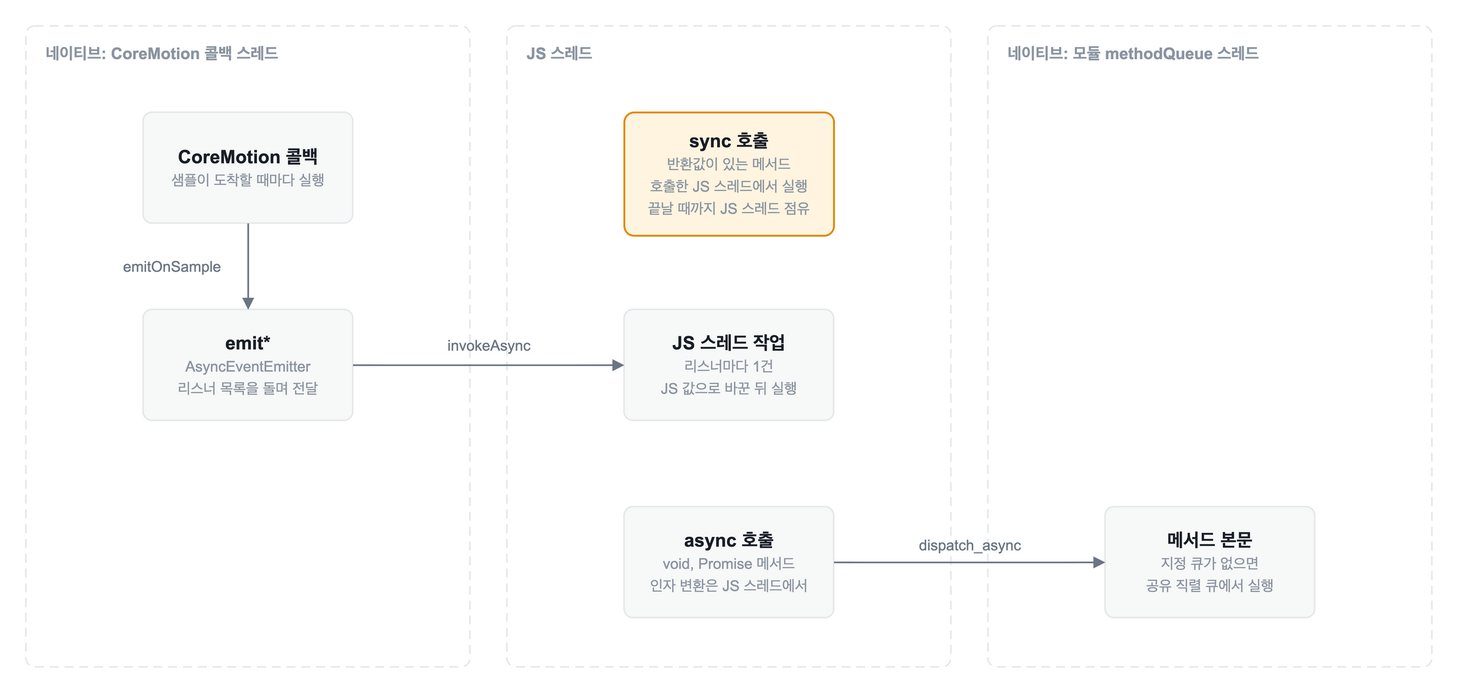
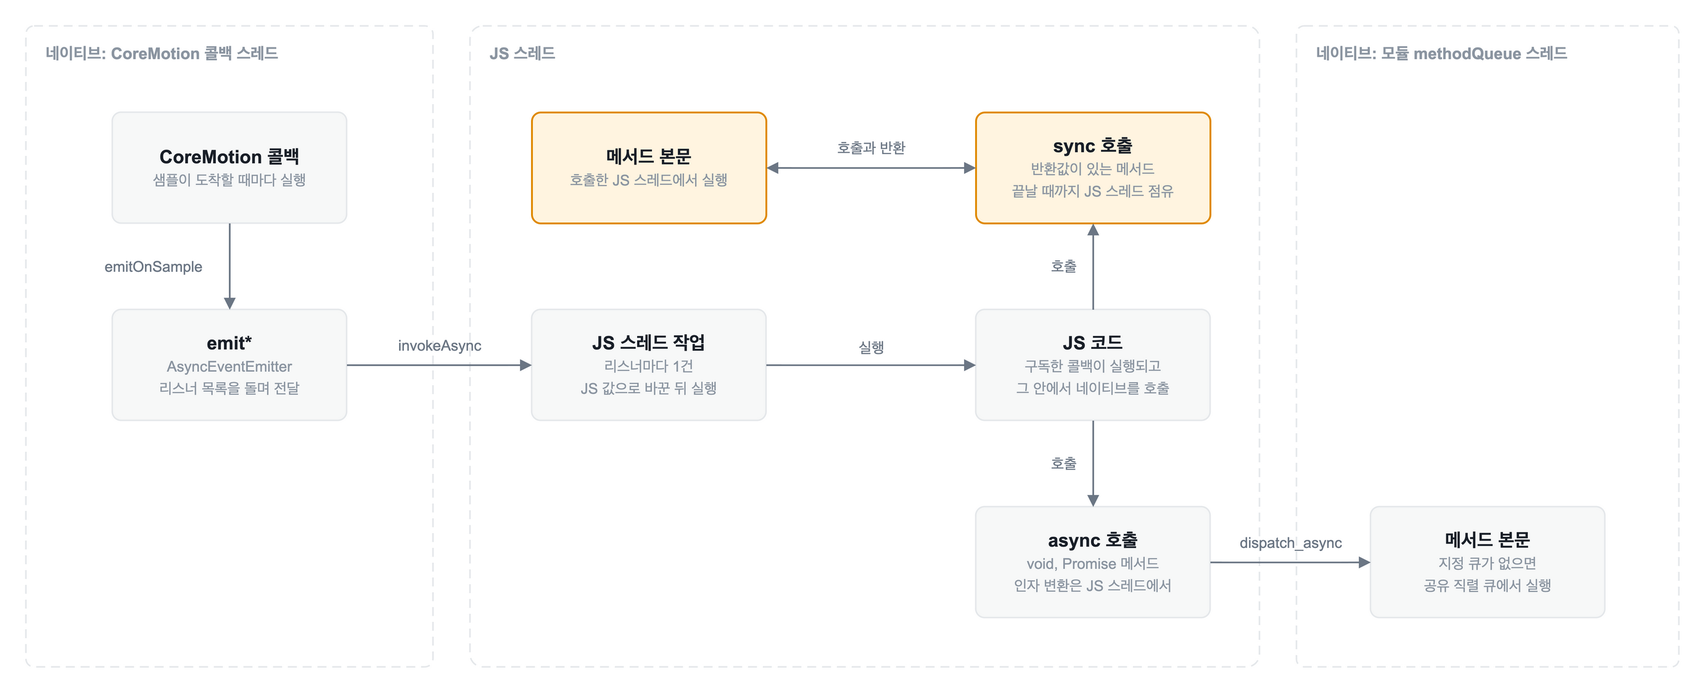
fix: 센서 값 전달 방식 비교 글 근거 보강 및 그림 수정

diff --git a/_posts/2026-10-25-rn-native-bidirectional-queue.md b/_posts/2026-10-25-rn-native-bidirectional-queue.md
@@ -1,50 +1,52 @@
 ---
 title: "React Native 센서 값, 이벤트로 보낼까 큐에 모을까?"
 date: "2026-10-25T00:00:00.000Z"
-excerpt: "iOS 시뮬레이터에서 가속도계 값을 이벤트로 보내는 스트림, 거기에 JS 프레임 묶음을 더한 대조군, 네이티브 큐 세 방식으로 JS에 전달하며 콜백 횟수, 경계 통과 횟수, 지연, 유실을 반복 측정해 비교한 실험 보고서입니다."
+excerpt: "iOS 시뮬레이터에서 가속도계 값을 이벤트로 보내는 스트림, 거기에 JS 프레임 묶음을 더한 대조군, 네이티브 큐 세 방식으로 JS에 전달하며 콜백 횟수, 경계 통과 횟수, 지연, 유실을 반복 측정해 비교한 실험 보고서이다."
 categories: architecture
 tags: []
 ---
-
 ## 1. 실험 목적
 
 네이티브에서 계속 만들어지는 센서 값을 React Native의 JS로 보내는 방식인 스트림과 큐를 같은 조건에서 반복 측정하여 어느 쪽이 어떤 조건에서 더 효율적인지 확인하는 것이 이 실험의 목적이다.
 
-큐는 값을 프레임 단위로 묶어서 처리한다. 그래서 큐의 이점이 큐라는 구조에서 나오는지 아니면 프레임 단위로 묶는 데서만 나오는지를 가려내기 위해 대조군인 프레임 묶음을 하나 더 두었다. 추가로 JS에서 네이티브로 자주 부르는 입력을 프레임 단위로 합치는 방법의 효과도 확인한다.
+이 실험의 큐는 JS가 프레임마다 값을 꺼내 가도록 만들었다. 그래서 큐의 이점이 큐라는 구조에서 나오는지 아니면 프레임 단위로 처리하는 데서만 나오는지를 가려내기 위해 대조군인 프레임 묶음을 하나 더 두었다. 추가로 JS에서 네이티브로 자주 부르는 입력을 프레임 단위로 합치는 방법의 효과도 확인한다.
 
 ## 2. 실험 배경
 
 ### 2.1 용어와 원리
 
-React Native 앱에서 JS 코드와 네이티브 코드는 대부분 서로 다른 스레드에서 실행된다. JS 스레드는 한 번에 한 가지 일만 처리하며 React의 화면 구성 계산과 JS 콜백을 맡는다. 실제로 화면에 그리는 일은 메인 스레드가 맡는다. 따라서 JS 스레드에 과부하가 걸리면 콜백과 화면 구성 계산이 그만큼 밀린다.
+React Native 앱에서 JS 코드와 네이티브 코드는 대부분 서로 다른 스레드에서 실행된다. 공식 문서 [Threading Model](https://reactnative.dev/architecture/threading-model)은 UI 스레드를 화면의 뷰를 다룰 수 있는 유일한 스레드로 설명하고 JS 스레드를 React의 렌더 단계와 레이아웃이 실행되는 곳으로 설명한다. JS 스레드는 JS 콜백도 실행한다. JS는 작업 하나가 끝나야 다음 작업을 처리한다. 이 규칙은 [MDN](https://developer.mozilla.org/en-US/docs/Web/JavaScript/Reference/Execution_model#run-to-completion)에서 확인할 수 있다. 따라서 JS 스레드가 과부하가 걸리면 콜백과 화면 구성 계산이 그만큼 밀린다.
 
 - 구독: JS가 ‘값이 오면 알려 달라’고 등록하는 것
 - 콜백: 값이 왔을 때 JS에서 실행되는 함수
 - TurboModule: React Native에서 JS가 네이티브 기능을 부르는 통로
-- 동기 호출과 비동기 호출: 호출한 쪽이 끝날 때까지 기다리면 동기이고 기다리지 않으면 비동기
+
 - 프레임: 화면이 한 번 갱신되는 단위. `requestAnimationFrame`은 다음 프레임에 맞춰 함수를 실행한다
-- 스트림: 값이 만들어질 때마다 이벤트를 하나씩 보낸다. 이벤트 하나는 JS 스레드의 일감 하나가 된다
-- 큐: 네이티브가 값을 큐에 넣고 큐가 처음 채워질 때만 ‘읽을 값이 있다’는 신호를 보낸다. JS는 신호를 받으면 프레임마다 `drain`으로 최대 64개를 가져간다
-- 프레임 묶음: 대조군이다. 스트림처럼 이벤트를 샘플마다 받지만 JS는 받은 값을 모아 두었다가 프레임마다 한 번에 처리한다. 큐의 이점이 큐 구조에서 나오는지 모아서 처리하는 데서 나오는지 가리려고 두었다
+- 스트림: 값이 만들어질 때마다 이벤트를 하나씩 보낸다. 이벤트 하나마다 JS 스레드에서 콜백이 한 번 실행된다
+- 큐: 네이티브가 값을 큐에 넣고 큐가 처음 채워질 때만 ‘읽을 값이 있다’는 신호를 보낸다. JS는 신호를 받으면 프레임마다 `drain`으로 최대 64개를 가져간다. 64는 실험자가 정한 값이다
+- 프레임 묶음: 대조군이다. 스트림처럼 이벤트를 샘플마다 받지만 받은 값을 모아 두었다가 프레임마다 한 번에 처리하도록 실험자가 구현하였다. 큐의 이점이 큐 구조에서 나오는지 모아서 처리하는 데서 나오는지 가리려고 두었다
 - 경계 통과: JS와 네이티브 사이를 한 번 넘는 일. 이 실험에서는 네이티브에서 JS로 보내는 이벤트 1회와 JS에서 네이티브로 부르는 동기 호출 1회를 각각 1회로 센다
 
-React Native 0.88.0의 iOS 소스에서 확인한 사실은 다음과 같다.
+공식 문서 [Emitting Events in Native Modules](https://reactnative.dev/docs/the-new-architecture/native-modules-custom-events)는 이벤트가 보내질 때마다 구독한 콜백이 실행된다고만 설명한다. 이벤트가 어떤 스레드의 어떤 작업으로 전달되는지와 메서드의 동기와 비동기 실행 방식, 리스너가 없을 때의 동작은 공식 문서에서 찾지 못했다. 그래서 다음 동작은 React Native 0.88.0의 iOS 소스를 읽고 정리하였다. 이 중 이벤트마다 콜백이 실행된다는 점과 구독 전 값이 사라진다는 점은 이 실험에서 측정으로도 확인하였다.
 
-- 네이티브가 이벤트를 보내면 [`EventEmitter.h`](https://github.com/facebook/react-native/blob/v0.88.0/packages/react-native/ReactCommon/react/bridging/EventEmitter.h)의 `emit`이 리스너마다 [`Function.h`](https://github.com/facebook/react-native/blob/v0.88.0/packages/react-native/ReactCommon/react/bridging/Function.h)의 `invokeAsync`로 JS 스레드의 일감을 하나씩 예약한다
+- 네이티브가 이벤트를 보내면 [`EventEmitter.h`](https://github.com/facebook/react-native/blob/v0.88.0/packages/react-native/ReactCommon/react/bridging/EventEmitter.h)의 `emit`이 리스너마다 [`Function.h`](https://github.com/facebook/react-native/blob/v0.88.0/packages/react-native/ReactCommon/react/bridging/Function.h)의 `invokeAsync`로 JS 스레드에서 실행할 콜백을 하나씩 예약한다
 - [`RCTTurboModule.mm`](https://github.com/facebook/react-native/blob/v0.88.0/packages/react-native/ReactCommon/react/nativemodule/core/platform/ios/ReactCommon/RCTTurboModule.mm)에서 `void`나 `Promise`를 돌려주는 네이티브 메서드는 네이티브 쪽 큐에서 비동기로 실행되고 그 밖의 반환값이 있는 메서드는 JS 스레드가 끝날 때까지 기다린다
 - 이벤트를 보내는 시점에 리스너가 하나도 없으면 `emit`이 돌 목록이 비어 있어서 값은 버려진다
 - JS가 모듈을 처음 가져오기 전에는 [`serializeEventEmitter.js`](https://github.com/facebook/react-native/blob/v0.88.0/packages/react-native-codegen/src/generators/modules/GenerateModuleObjCpp/serializeEventEmitter.js)가 만든 이벤트 함수가 아무 일도 하지 않는다
 
-<img class="theme-image--light" src="/assets/images/posts/rn-native-bidirectional-queue/rn-native-boundary-map-light.png" alt="네이티브의 CoreMotion 콜백 스레드에서 emit이 invokeAsync로 JS 스레드 작업이 되고 sync 호출은 JS 스레드에서 실행되며 async 호출은 dispatch_async로 네이티브 methodQueue 스레드로 가는 흐름">
-<img class="theme-image--dark" src="/assets/images/posts/rn-native-bidirectional-queue/rn-native-boundary-map.png" alt="네이티브의 CoreMotion 콜백 스레드에서 emit이 invokeAsync로 JS 스레드 작업이 되고 sync 호출은 JS 스레드에서 실행되며 async 호출은 dispatch_async로 네이티브 methodQueue 스레드로 가는 흐름">
+이벤트 횟수를 프레임 단위로 줄이는 방식에는 React Native 안에도 선례가 있다. [ScrollView 문서](https://reactnative.dev/docs/scrollview)는 `onScroll`이 스크롤 중 프레임당 최대 한 번 호출된다고 설명하고 `scrollEventThrottle`로 호출 간격을 더 늘릴 수 있다고 설명한다. 다만 이것은 네이티브 쪽에서 횟수를 제한하는 방식이고 프레임 묶음과 큐의 효과를 보장하는 근거는 아니다.
+
+<img class="theme-image--light" src="/assets/images/posts/rn-native-bidirectional-queue/rn-native-boundary-map-light.png" alt="네이티브의 CoreMotion 콜백이 emit으로 이벤트를 보내면 invokeAsync로 JS 스레드 작업이 되어 JS 코드가 실행되고 JS 코드가 부르는 sync 호출은 JS 스레드에서 메서드 본문을 실행하고 값을 반환하며 async 호출은 dispatch_async로 네이티브 methodQueue 스레드의 메서드 본문으로 가는 흐름">
+
+<img class="theme-image--dark" src="/assets/images/posts/rn-native-bidirectional-queue/rn-native-boundary-map.png" alt="네이티브의 CoreMotion 콜백이 emit으로 이벤트를 보내면 invokeAsync로 JS 스레드 작업이 되어 JS 코드가 실행되고 JS 코드가 부르는 sync 호출은 JS 스레드에서 메서드 본문을 실행하고 값을 반환하며 async 호출은 dispatch_async로 네이티브 methodQueue 스레드의 메서드 본문으로 가는 흐름">
 
 *그림 1. 호출 종류별로 실행되는 스레드*
 
 ### 2.2 효율의 기준
 
-효율을 다음 지표로 정의하였다. 콜백 횟수와 경계 통과 횟수와 지연과 유실은 낮을수록 JS 스레드와 경계의 부담이 적거나 값이 제때 도착했다는 뜻이다.
+효율을 다음 지표로 정의하였다. 콜백 횟수, 경계 통과 횟수, 지연, 유실은 낮을수록 좋다. 콜백과 경계 통과가 적으면 JS 스레드의 부담이 작고 지연과 유실이 적으면 값이 제때 도착한 것이다.
 
-- JS 콜백 횟수: 초당 JS가 처리해야 하는 일감 수
+- JS 콜백 횟수: 초당 JS가 실행하는 콜백 수
 - 경계 통과 횟수: 초당 경계를 넘는 횟수
 - 지연: 값이 만들어진 시각부터 JS 콜백이 실행되는 시각까지의 시간. 단위는 ms이다
 - 유실과 버림: 도착하지 못했거나 버려진 값의 개수
@@ -65,16 +67,18 @@ React Native 0.88.0의 iOS 소스에서 확인한 사실은 다음과 같다.
 
 ## 4. 실험 환경 및 도구
 
-| 항목 | 내용 |
-| --- | --- |
-| 기기 | iPhone 18 Pro 시뮬레이터 |
-| OS | iOS 27.0 |
-| 앱 | React Native 0.88.0 템플릿 앱 |
-| 빌드 | Debug |
-| 언어 | Swift, Objective-C++, TypeScript |
-| 네이티브 샘플 | 가속도계가 없어 `DispatchSource` 타이머로 합성한 값. 실행 간격이 어긋나지 않도록 `.strict` 옵션을 사용 |
-| 계측 | 네이티브 카운터는 생산, 이벤트, 신호, `drain`, `setAlpha` 횟수이고 `uptime`은 샘플 생성 시각과 같은 시계를 읽는다 |
-| 결과 수집 | 앱이 결과를 로컬 HTTP 서버로 전송하여 파일에 기록 |
+
+| 항목      | 내용                                                                             |
+| ------- | ------------------------------------------------------------------------------ |
+| 기기      | iPhone 18 Pro 시뮬레이터                                                            |
+| OS      | iOS 27.0                                                                       |
+| 앱       | React Native 0.88.0 템플릿 앱                                                      |
+| 빌드      | Debug                                                                          |
+| 언어      | Swift, Objective-C++, TypeScript                                               |
+| 네이티브 샘플 | 가속도계가 없어 `DispatchSource` 타이머로 합성한 값. 실행 간격이 어긋나지 않도록 `.strict` 옵션을 사용         |
+| 계측      | 네이티브 카운터는 생산, 이벤트, 신호, `drain`, `setAlpha` 횟수이고 `uptime`은 샘플 생성 시각과 같은 시계를 읽는다 |
+| 결과 수집   | 앱이 결과를 로컬 HTTP 서버로 전송하여 파일에 기록                                                 |
+
 
 변인은 다음과 같이 두었다.
 
@@ -90,11 +94,13 @@ React Native 0.88.0의 iOS 소스에서 확인한 사실은 다음과 같다.
 스트림은 네이티브가 샘플을 만들 때마다 이벤트를 보내고 JS 콜백이 한 번씩 실행된다. 프레임 묶음은 같은 이벤트를 받되 콜백에서는 샘플 생성 시각만 모아 두고 `requestAnimationFrame`에서 한 번만 처리한다. 큐는 네이티브가 샘플을 큐에 넣고 큐가 처음 채워질 때만 신호를 보내며 JS가 프레임마다 `drain`으로 가져간다. 세 방식은 한 모듈에 들어 있고 `CMMotionManager`가 하나라서 한 번에 하나만 켠다. 시작과 정지는 순서가 중요해서 반환값이 있는 동기 메서드로 두었다. 전체 코드는 부록에 있다.
 
 <img class="theme-image--light" src="/assets/images/posts/rn-native-bidirectional-queue/rn-native-stream-flow-light.png" alt="네이티브에서 JS로는 CoreMotion 콜백이 샘플마다 emitOnSample을 호출하고 JS 스레드 작업 대기를 거쳐 onSample 콜백으로 가며 JS에서 네이티브로는 입력 이벤트마다 setAlpha가 호출되어 methodQueue를 거쳐 네이티브에 반영되는 흐름">
+
 <img class="theme-image--dark" src="/assets/images/posts/rn-native-bidirectional-queue/rn-native-stream-flow.png" alt="네이티브에서 JS로는 CoreMotion 콜백이 샘플마다 emitOnSample을 호출하고 JS 스레드 작업 대기를 거쳐 onSample 콜백으로 가며 JS에서 네이티브로는 입력 이벤트마다 setAlpha가 호출되어 methodQueue를 거쳐 네이티브에 반영되는 흐름">
 
 *그림 2. 스트림 구조*
 
 <img class="theme-image--light" src="/assets/images/posts/rn-native-bidirectional-queue/rn-native-queue-flow-light.png" alt="CoreMotion 콜백이 SampleQueue에 push하고 큐가 처음 채워질 때 emitOnReadable 신호를 보내면 JS가 requestAnimationFrame으로 drain을 예약해 큐에서 꺼내 onBatch 콜백으로 전달하며 setAlpha는 프레임 안에서 마지막 값만 남겨 네이티브를 한 번 호출하는 흐름">
+
 <img class="theme-image--dark" src="/assets/images/posts/rn-native-bidirectional-queue/rn-native-queue-flow.png" alt="CoreMotion 콜백이 SampleQueue에 push하고 큐가 처음 채워질 때 emitOnReadable 신호를 보내면 JS가 requestAnimationFrame으로 drain을 예약해 큐에서 꺼내 onBatch 콜백으로 전달하며 setAlpha는 프레임 안에서 마지막 값만 남겨 네이티브를 한 번 호출하는 흐름">
 
 *그림 3. 큐 구조*
@@ -136,69 +142,83 @@ React Native 0.88.0의 iOS 소스에서 확인한 사실은 다음과 같다.
 
 **표 1. 실험 A: 샘플 속도별 초당 JS 콜백 횟수**
 
-| 샘플 속도 | 스트림 | 프레임 묶음 | 큐 |
-| --- | --- | --- | --- |
-| 초당 약 30개, 간격 33ms | 30 | 30 | 30 |
-| 초당 약 63개, 간격 16ms | 63 | 60 | 60 |
-| 초당 100개, 간격 10ms | 100 | 60 | 60 |
-| 초당 약 125개, 간격 8ms | 125 | 60 | 60 |
-| 초당 250개, 간격 4ms | 250 | 60 | 60 |
-| 초당 1000개, 간격 1ms | 1000 | 60 | 60 |
+
+| 샘플 속도             | 스트림  | 프레임 묶음 | 큐   |
+| ----------------- | ---- | ------ | --- |
+| 초당 약 30개, 간격 33ms | 30   | 30     | 30  |
+| 초당 약 63개, 간격 16ms | 63   | 60     | 60  |
+| 초당 100개, 간격 10ms  | 100  | 60     | 60  |
+| 초당 약 125개, 간격 8ms | 125  | 60     | 60  |
+| 초당 250개, 간격 4ms   | 250  | 60     | 60  |
+| 초당 1000개, 간격 1ms  | 1000 | 60     | 60  |
+
 
 **표 2. 실험 A: 샘플 속도별 초당 경계 통과 횟수**
 
-| 샘플 속도 | 스트림 | 프레임 묶음 | 큐 |
-| --- | --- | --- | --- |
-| 초당 약 30개, 간격 33ms | 30 | 30 | 61 |
-| 초당 약 63개, 간격 16ms | 63 | 63 | 119 |
-| 초당 100개, 간격 10ms | 100 | 100 | 120 |
-| 초당 약 125개, 간격 8ms | 125 | 125 | 120 |
-| 초당 250개, 간격 4ms | 250 | 250 | 120 |
-| 초당 1000개, 간격 1ms | 1000 | 1000 | 120 |
+
+| 샘플 속도             | 스트림  | 프레임 묶음 | 큐   |
+| ----------------- | ---- | ------ | --- |
+| 초당 약 30개, 간격 33ms | 30   | 30     | 61  |
+| 초당 약 63개, 간격 16ms | 63   | 63     | 119 |
+| 초당 100개, 간격 10ms  | 100  | 100    | 120 |
+| 초당 약 125개, 간격 8ms | 125  | 125    | 120 |
+| 초당 250개, 간격 4ms   | 250  | 250    | 120 |
+| 초당 1000개, 간격 1ms  | 1000 | 1000   | 120 |
+
 
 **표 3. 실험 B: 콜백 1회당 작업 시간별 평균 지연이며 단위는 ms이다**
 
-| 콜백 1회당 작업 | 스트림 | 프레임 묶음 | 큐 |
-| --- | --- | --- | --- |
-| 0ms | 0.41 ± 0.45 | 8.78 ± 0.53 | 9.45 ± 0.15 |
-| 4ms | 0.08 ± 0.04 | 9.44 ± 0.48 | 8.54 ± 1.53 |
-| 8ms | 0.03 ± 0.00 | 8.87 ± 0.45 | 8.18 ± 1.19 |
-| 12ms | 337.33 ± 3.53 | 8.95 ± 0.67 | 9.05 ± 0.20 |
 
-**표 4. 실험 B: 콜백 1회당 작업 시간별 최대 지연이며 단위는 ms이고 3회 중 최솟값~최댓값이다**
+| 콜백 1회당 작업 | 스트림           | 프레임 묶음      | 큐           |
+| --------- | ------------- | ----------- | ----------- |
+| 0ms       | 0.41 ± 0.45   | 8.78 ± 0.53 | 9.45 ± 0.15 |
+| 4ms       | 0.08 ± 0.04   | 9.44 ± 0.48 | 8.54 ± 1.53 |
+| 8ms       | 0.03 ± 0.00   | 8.87 ± 0.45 | 8.18 ± 1.19 |
+| 12ms      | 337.33 ± 3.53 | 8.95 ± 0.67 | 9.05 ± 0.20 |
 
-| 콜백 1회당 작업 | 스트림 | 프레임 묶음 | 큐 |
-| --- | --- | --- | --- |
-| 0ms | 0.4~72.7 | 16.4~17.0 | 16.5~16.7 |
-| 4ms | 0.2~11.5 | 16.6~17.6 | 16.5~16.9 |
-| 8ms | 0.1~0.2 | 16.3~17.7 | 16.0~17.7 |
-| 12ms | 669.9~685.6 | 15.9~17.2 | 16.2~16.7 |
 
-콜백당 작업 12ms 조건에서 초당 받은 샘플 수는 스트림이 약 83개, 프레임 묶음과 큐가 약 100개였다. 스트림은 이 조건에서 4초가 끝난 시점에 처리하지 못한 일감이 3회 모두 68~69개 남아 있었다. 이 개수는 생산 수에서 받은 수를 뺀 값이다. 프레임 묶음과 큐는 1~2개였다.
+**표 4. 실험 B: 콜백 1회당 작업 시간별 최대 지연이며 단위는 ms이고 3회 중 최솟값\~최댓값이다**
+
+
+| 콜백 1회당 작업 | 스트림          | 프레임 묶음     | 큐          |
+| --------- | ------------ | ---------- | ---------- |
+| 0ms       | 0.4\~72.7    | 16.4\~17.0 | 16.5\~16.7 |
+| 4ms       | 0.2\~11.5    | 16.6\~17.6 | 16.5\~16.9 |
+| 8ms       | 0.1\~0.2     | 16.3\~17.7 | 16.0\~17.7 |
+| 12ms      | 669.9\~685.6 | 15.9\~17.2 | 16.2\~16.7 |
+
+
+콜백당 작업 12ms 조건에서 초당 받은 샘플 수는 스트림이 약 83개, 프레임 묶음과 큐가 약 100개였다. 스트림은 이 조건에서 4초가 끝난 시점에 처리하지 못한 이벤트가 3회 모두 68\~69개 남아 있었다. 이 개수는 생산 수에서 받은 수를 뺀 값이다. 프레임 묶음과 큐는 1\~2개였다.
 
 **표 5. 실험 C: 구독 전 유실**
 
-| 방식 | 시행별 구독 전 유실 개수 |
-| --- | --- |
-| 스트림 | 52, 51, 52 |
-| 큐 | 0, 0, 0 |
+
+| 방식  | 시행별 구독 전 유실 개수 |
+| --- | -------------- |
+| 스트림 | 52, 51, 52     |
+| 큐   | 0, 0, 0        |
+
 
 **표 6. 실험 D: JS 8초 정지. 생산, 받은, 버린은 3회의 범위**
 
-| 방식 | 생산 | 받은 | 버린 | 가장 오래 기다린 값(ms) | 회복(ms) |
-| --- | --- | --- | --- | --- | --- |
-| 스트림 | 1071~1073 | 1071~1073 | 0~0 | 7993.6 ± 3.2 | 7.0 ± 0.0 |
-| 프레임 묶음 | 1072~1072 | 1072~1072 | 0~0 | 8016.3 ± 0.1 | 4.7 ± 0.6 |
-| 큐 | 1072~1072 | 782~784 | 288~290 | 5116.2 ± 0.0 | 122.3 ± 9.2 |
+
+| 방식     | 생산         | 받은         | 버린       | 가장 오래 기다린 값(ms) | 회복(ms)      |
+| ------ | ---------- | ---------- | -------- | --------------- | ----------- |
+| 스트림    | 1071\~1073 | 1071\~1073 | 0\~0     | 7993.6 ± 3.2    | 7.0 ± 0.0   |
+| 프레임 묶음 | 1072\~1072 | 1072\~1072 | 0\~0     | 8016.3 ± 0.1    | 4.7 ± 0.6   |
+| 큐      | 1072\~1072 | 782\~784   | 288\~290 | 5116.2 ± 0.0    | 122.3 ± 9.2 |
+
 
 **표 7. 실험 E: JS에서 네이티브로의 호출**
 
-| 조건 | 방식 | 네이티브 실행 횟수 | JS 소요(ms) |
-| --- | --- | --- | --- |
-| 1000회 연속 | 직접 | 1000 | 7.98 ± 0.67 |
-| 1000회 연속 | 합침 | 1 | 0.36 ± 0.02 |
-| 10ms 간격 타이머로 200회, 실제 경과 3.33초 | 직접 | 200 | 재지 않음 |
-| 10ms 간격 타이머로 200회, 실제 경과 3.33초 | 합침 | 100 | 재지 않음 |
+
+| 조건                             | 방식  | 네이티브 실행 횟수 | JS 소요(ms)   |
+| ------------------------------ | --- | ---------- | ----------- |
+| 1000회 연속                       | 직접  | 1000       | 7.98 ± 0.67 |
+| 1000회 연속                       | 합침  | 1          | 0.36 ± 0.02 |
+| 10ms 간격 타이머로 200회, 실제 경과 3.33초 | 직접  | 200        | 재지 않음       |
+| 10ms 간격 타이머로 200회, 실제 경과 3.33초 | 합침  | 100        | 재지 않음       |
+
 
 <img class="align-center" src="/assets/images/posts/rn-native-bidirectional-queue/rn-native-simulator.png" alt="iPhone 18 Pro 시뮬레이터 화면에 스트림, 프레임 묶음, 큐 세 방식의 콜백 횟수, 경계 통과 횟수, 지연, 유실, JS 정지 결과와 JS에서 네이티브로의 호출 결과 평균이 표시된 측정 앱" width="320">
 
@@ -208,32 +228,34 @@ React Native 0.88.0의 iOS 소스에서 확인한 사실은 다음과 같다.
 
 ### 7.1 가설 검증
 
-| 가설 | 결과 | 판정 |
-| --- | --- | --- |
-| 1. 큐가 콜백 횟수를 줄인다 | 큐는 샘플이 초당 63개 이상일 때 약 60회로 고정되고 스트림은 샘플 수와 같음. 초당 1000개에서 1000 대 60 | 지지 |
-| 2. 큐가 모든 속도에서 경계 통과를 줄인다 | 초당 30개에서 스트림 30 대 큐 61. 초당 100개에서 100 대 120. 초당 125개에서 125 대 120. 초당 1000개에서 1000 대 120 | 반증. 125개/초 이상에서만 큐가 적음 |
-| 3. JS가 한가하면 스트림의 지연이 작다 | 콜백당 작업 0, 4, 8ms에서 스트림 0.03~0.41ms 대 큐 8.18~9.45ms | 지지 |
-| 4. 콜백 1회의 일이 크면 큐의 지연이 작다 | 12ms에서 스트림 337.33ms 대 큐 9.05ms. 8ms 이하에서는 스트림이 더 작음 | 조건부. 12ms에서만 지지 |
-| 5. 이득이 큐 구조에서 나온다 | 12ms에서 프레임 묶음 8.95ms로 큐 9.05ms와 같고 콜백도 약 60회로 같음 | 반증 |
-| 6. 구독 전 값은 큐에서만 남는다 | 유실이 스트림 51~52개 대 큐 0개 | 확인 |
-| 7. 정지 뒤 스트림은 모두 전달하고 큐는 버린다 | 스트림과 프레임 묶음은 전부 도착하고 큐는 288~290개 버림 | 확인 |
-| 8. 호출을 합치면 줄어든다 | 1000회 연속에서 네이티브 실행 1000회 대 1회이고 JS 소요 7.98ms 대 0.36ms | 확인 |
+
+| 가설                          | 결과                                                                                      | 판정                     |
+| --------------------------- | --------------------------------------------------------------------------------------- | ---------------------- |
+| 1. 큐가 콜백 횟수를 줄인다            | 큐는 샘플이 초당 63개 이상일 때 약 60회로 고정되고 스트림은 샘플 수와 같음. 초당 1000개에서 1000 대 60                     | 지지                     |
+| 2. 큐가 모든 속도에서 경계 통과를 줄인다    | 초당 30개에서 스트림 30 대 큐 61. 초당 100개에서 100 대 120. 초당 125개에서 125 대 120. 초당 1000개에서 1000 대 120 | 반증. 125개/초 이상에서만 큐가 적음 |
+| 3. JS가 한가하면 스트림의 지연이 작다     | 콜백당 작업 0, 4, 8ms에서 스트림 0.03\~0.41ms 대 큐 8.18\~9.45ms                                    | 지지                     |
+| 4. 콜백 1회의 일이 크면 큐의 지연이 작다   | 12ms에서 스트림 337.33ms 대 큐 9.05ms. 8ms 이하에서는 스트림이 더 작음                                     | 조건부. 12ms에서만 지지        |
+| 5. 이득이 큐 구조에서 나온다           | 12ms에서 프레임 묶음 8.95ms로 큐 9.05ms와 같고 콜백도 약 60회로 같음                                        | 반증                     |
+| 6. 구독 전 값은 큐에서만 남는다         | 유실이 스트림 51\~52개 대 큐 0개                                                                  | 확인                     |
+| 7. 정지 뒤 스트림은 모두 전달하고 큐는 버린다 | 스트림과 프레임 묶음은 전부 도착하고 큐는 288\~290개 버림                                                    | 확인                     |
+| 8. 호출을 합치면 줄어든다             | 1000회 연속에서 네이티브 실행 1000회 대 1회이고 JS 소요 7.98ms 대 0.36ms                                   | 확인                     |
+
 
 ### 7.2 해석
 
-**콜백 횟수와 지연은 프레임 묶음에서 나왔다.** 큐도 프레임 묶음도 콜백이 초당 약 60회로 고정되었고 샘플이 초당 1000개가 되어도 변하지 않았다. 콜백마다 12ms를 쓰는 조건에서 스트림의 평균 지연은 337ms였고 최대 670~686ms까지 커졌다. 프레임 묶음과 큐는 각각 8.95ms와 9.05ms로 같았다. 이 조건은 콜백 1회마다 일을 걸었기 때문에 콜백이 초당 100번인 스트림은 1초에 1.2초 분량의 일을 받아 감당하지 못해 초당 약 83개만 처리하고 60번인 프레임 묶음과 큐는 0.72초 분량이라 감당한다. 큐라는 구조가 아니라 콜백 수가 적다는 점이 이득의 원인이다. 일을 샘플마다 걸었다면 프레임 묶음과 큐도 이득이 줄었을 것이다. 이 조건은 측정하지 않았다.
+**콜백 횟수와 지연은 프레임 묶음에서 나왔다.** 큐도 프레임 묶음도 콜백이 초당 약 60회로 고정되었고 샘플이 초당 1000개가 되어도 변하지 않았다. 콜백마다 12ms를 쓰는 조건에서 스트림의 평균 지연은 337ms였고 최대 670\~686ms까지 커졌다. 프레임 묶음과 큐는 각각 8.95ms와 9.05ms로 같았다. 이 조건은 콜백 1회마다 일을 걸었다. 콜백이 초당 100번인 스트림은 1초에 1.2초 분량의 일을 받아 초당 약 83개만 처리했다. 60번인 프레임 묶음과 큐는 0.72초 분량이라 감당했다. 큐라는 구조가 아니라 콜백 수가 적다는 점이 이득의 원인이다. 일을 샘플마다 걸었다면 프레임 묶음과 큐도 이득이 줄었을 것이다. 이 조건은 측정하지 않았다.
 
-지연이 337ms로 끝난 것도 4초만 쟀기 때문이다. 스트림은 일감이 계속 쌓이는 상태였고 평균이 최대의 절반이므로 시간이 지날수록 거의 같은 비율로 커진다고 볼 수 있다. 그 비율은 약 초당 170ms이다.
+지연이 337ms로 측정된 것도 4초만 쟀기 때문이다. 스트림은 이벤트가 계속 쌓이는 상태였고 평균이 최대의 절반이므로 시간이 지날수록 거의 같은 비율로 커진다고 볼 수 있다. 증가 속도는 초당 약 170ms이다.
 
 **콜백이 가벼우면 콜백 수의 차이는 크지 않을 수 있다.** JS가 8초 멈췄다 풀렸을 때 스트림은 약 800개의 밀린 콜백을 7ms 만에 처리했다. 콜백 하나에 약 10µs가 든 셈이다. 12ms 조건에서는 초당 약 83개를 처리했으므로 콜백 1회의 오버헤드가 수십 µs 이내로 추정된다. 이 정도면 초당 1000번 불려도 JS 스레드의 몇 %만 쓴다. 콜백 수의 차이가 문제가 되는 때는 콜백 1회의 일이 클 때이다.
 
 **경계 통과는 큐만의 효과였다.** 프레임 묶음은 이벤트를 샘플마다 받으므로 경계 통과가 스트림과 같았다. 큐는 프레임마다 신호 1번과 `drain` 1번을 쓰므로 샘플이 초당 60개를 넘으면 약 120회로 고정되었다. 초당 30개일 때는 큐가 61회로 스트림의 30회보다 두 배 많았다. 샘플이 초당 120개보다 적으면 스트림이 경계를 덜 넘고 많으면 큐가 덜 넘는다. 측정으로 확인한 교차점은 초당 100개와 125개 사이이다. 100개에서는 큐 120회 대 스트림 100회이고 125개에서는 큐 120회 대 스트림 125회이다. 1000개에서 큐는 스트림의 약 1/8이었다. 다만 경계를 한 번 넘는 비용이 얼마인지는 재지 않았다.
 
-**지연은 JS가 한가할 때 스트림이 압도적으로 작았다.** 스트림은 평균 0.03~0.41ms였고 프레임 묶음과 큐는 8~9.5ms였다. 스트림의 최대 지연은 콜백당 작업이 0ms인 조건의 3회 중 1회에서 72.7ms까지 튀었다. 프레임 묶음과 큐는 값이 만들어진 뒤 다음 프레임이 올 때까지 기다리기 때문이다. 이 시간은 프레임 간격 약 16.7ms의 절반 안팎이다.
+**지연은 JS가 한가할 때 스트림이 압도적으로 작았다.** 스트림은 평균 0.03\~0.41ms였고 프레임 묶음과 큐는 8\~9.5ms였다. 프레임 묶음과 큐는 값이 만들어진 뒤 다음 프레임이 올 때까지 기다리므로 평균 지연이 프레임 간격 약 16.7ms의 절반 안팎이다. 스트림의 최대 지연은 콜백당 작업이 0ms인 조건의 3회 중 1회에서 72.7ms까지 튀었다.
 
-**구독 전 값은 큐에서만 남았다.** 500ms 동안 만들어진 값 중 스트림은 51~52개를 잃었고 큐는 하나도 잃지 않았다. 큐는 512개까지 쌓아 두므로 초당 100개에서는 약 5초치까지 남는다. 이 결과는 스트림에 버퍼가 없다는 구조에서 정해진 것이어서 동작 확인에 가깝다.
+**구독 전 값은 큐에서만 남았다.** 500ms 동안 만들어진 값 중 스트림은 51\~52개를 잃었고 큐는 하나도 잃지 않았다. 큐는 512개까지 쌓아 두므로 초당 100개에서는 약 5초치까지 남는다. 이 결과는 스트림에 버퍼가 없다는 구조에서 정해진 것이어서 동작 확인에 가깝다.
 
-**JS가 멈췄다 풀린 뒤에는 스트림이 더 빨리 회복했다.** 스트림과 프레임 묶음은 생산된 1071~1073개를 모두 받았고 회복에 각각 약 7ms와 5ms가 걸렸다. 가장 오래 기다린 값은 약 8초였다. 큐는 용량을 넘은 288~290개를 버렸고 남은 512개를 프레임마다 64개씩 8프레임에 걸쳐 오래된 값부터 내보내서 회복에 117~133ms가 걸렸다. 가장 오래 기다린 값 5116ms는 512개 × 10ms에서 나온 값이다. 즉 큐는 정지 뒤에 가장 오래된 값부터 전달하므로 최신 값이 가장 늦게 도착한다. 최근 값만 필요한 목적이라면 이 결과는 큐에 불리하다. 최신 값부터 꺼내는 방식은 이 실험에서 만들지 않았다.
+**JS가 멈췄다 풀린 뒤에는 스트림이 더 빨리 회복했다.** 스트림과 프레임 묶음은 생산된 1071\~1073개를 모두 받았고 회복에 각각 약 7ms와 5ms가 걸렸다. 가장 오래 기다린 값은 약 8초였다. 큐는 용량을 넘은 288\~290개를 버렸고 남은 512개를 프레임마다 64개씩 8프레임에 걸쳐 오래된 값부터 내보내서 회복에 117\~133ms가 걸렸다. 가장 오래 기다린 값 5116ms는 512개 × 10ms에서 나온 값이다. 큐는 정지 뒤에 가장 오래된 값부터 전달하므로 최신 값이 가장 늦게 도착한다. 최근 값만 필요한 목적이라면 이 결과는 큐에 불리하다. 최신 값부터 꺼내는 방식은 이 실험에서 만들지 않았다.
 
 **JS에서 네이티브로의 호출은 합치는 효과가 컸다.** 1000번을 연달아 부르면 네이티브 실행이 1000번에서 1번으로 줄었고 JS가 쓴 시간도 7.98ms에서 0.36ms로 줄었다. 10ms 간격 타이머로 200번을 부르는 조건에서는 200번이 100번으로 줄었다. 이 조건은 시뮬레이터에서 타이머가 프레임 간격인 약 16.7ms에 맞춰 실행되어 실제로 3.33초가 걸렸다. 초당 약 60회였고 초당 100회의 입력이 아니었다.
 
@@ -248,17 +270,17 @@ React Native 0.88.0의 iOS 소스에서 확인한 사실은 다음과 같다.
 - 지연을 재기 위해 콜백마다 `uptime`을 동기로 호출하였다. 이 호출이 스트림에 더 큰 부담을 주었을 수 있다. 실험 A는 지연을 재지 않아 이 영향이 없다.
 - 스트림과 큐는 전달 방식과 함께 값의 형식도 다르다. 스트림은 샘플마다 객체를 만들어 JS로 넘기고 큐는 숫자 묶음인 `ArrayBuffer`를 돌려준다. 이 차이가 결과에 준 영향은 분리하지 못했다.
 - 대조군은 JS에서 프레임마다 처리하는 방식 하나뿐이다. 네이티브에서 값을 모아 이벤트 한 번에 여러 개를 보내는 방식은 측정하지 않았다.
+- 큐의 용량 512와 `drain` 한 번의 최대 개수 64는 실험자가 정한 값이며 바꿔 가며 측정하지 않았다. 용량은 JS 정지 때 버려지는 개수에 영향을 주고 64는 회복 시간에 영향을 준다. 프레임마다 64개를 가져가면 초당 3840개까지 처리하므로 실험한 최대 속도인 초당 1000개보다 크다.
 - 시행 순서를 교차했지만 모든 반복을 한 세션에서 연속으로 돌렸다. 표준편차가 작은 것은 같은 조건이 결정적으로 반복되었다는 뜻이고 서로 독립인 반복이라고 보기는 어렵다.
-- 메모리와 CPU 사용량, Android는 측정하지 않았다. 스트림이 쌓아 두는 일감의 상한은 소스에서 찾지 못했고 이 실험에서는 약 1000개 규모까지만 버려진 값이 없었다.
+- 메모리와 CPU 사용량, Android는 측정하지 않았다. 스트림이 쌓아 두는 이벤트의 상한은 소스에서 찾지 못했고 이 실험에서는 약 1000개 규모까지만 버려진 값이 없었다.
 - 첫 시도에서 콜백당 12ms 조건의 스트림이 7분 넘게 끝나지 않았다. 측정 종료를 4초 타이머로 걸었는데 JS가 쉬지 못해 타이머가 실행되지 못한 것으로 추정한다. 당시 기록은 남기지 않았고 원인도 확인하지 않았다. 콜백 안에서 직접 종료하도록 고쳐 다시 측정하였으며 위 결과는 고친 뒤의 값이다. 같은 이유로 실험 A에서 네이티브를 구독보다 먼저 켜던 순서도 구독을 먼저 하도록 고쳤다.
 
 ## 8. 결론
 
 iOS 시뮬레이터와 합성 샘플 조건에서 얻은 결론은 다음과 같다.
 
-- 콜백이 무거워서 JS가 밀리는 문제는 큐 없이도 풀 수 있었다. 이벤트는 그대로 받고 JS에서 프레임마다 한 번만 처리하는 프레임 묶음이 큐와 같은 약 9ms의 지연을 냈다. 이 문제만 풀려면 더 단순한 프레임 묶음으로 충분하다.
-- 큐가 프레임 묶음에 더해 주는 것은 세 가지였다. 경계 통과를 초당 약 120회로 고정하며 샘플이 초당 120개보다 많을 때 이득이 되었고 1000개에서는 약 1/8이었다. 구독 전에 만들어진 값을 보존하였다. 쌓이는 양에 상한을 두었다.
-- 큐의 대가는 다음과 같다. 값이 프레임을 기다려서 지연이 약 9ms로 늘었다. 샘플이 초당 120개보다 적으면 경계를 오히려 더 넘었다. 정지 뒤에는 오래된 값부터 전달해서 회복이 117~133ms 걸렸다. 동기 `drain`이 JS 스레드를 잠깐 붙잡는다.
+- 콜백이 무거워서 JS가 밀리는 문제는 큐 없이도 풀 수 있었다. 이벤트는 그대로 받고 JS에서 프레임마다 한 번만 처리하는 프레임 묶음이 큐와 같은 약 9ms의 지연을 냈다.- 큐가 프레임 묶음에 더해 주는 것은 세 가지였다. 경계 통과를 초당 약 120회로 고정하며 샘플이 초당 120개보다 많을 때 이득이 되었고 1000개에서는 약 1/8이었다. 구독 전에 만들어진 값을 보존하였다. 쌓이는 양에 상한을 두었다.
+- 큐의 대가는 다음과 같다. 값이 프레임을 기다려서 지연이 약 9ms로 늘었다. 샘플이 초당 120개보다 적으면 경계를 오히려 더 넘었다. 정지 뒤에는 오래된 값부터 전달해서 회복이 117\~133ms 걸렸다. 동기 `drain`이 JS 스레드를 잠깐 붙잡는다.
 - 샘플이 초당 120개 이하이고 값 하나하나가 필요하면 스트림이 낫다. 지연이 1ms 아래이고 구현이 가장 짧으며 이 조건에서 경계도 가장 적게 넘는다.
 - JS에서 네이티브로 자주 부르는 입력은 프레임 단위로 합치는 편이 호출 수와 JS 시간을 크게 줄였다.
 
